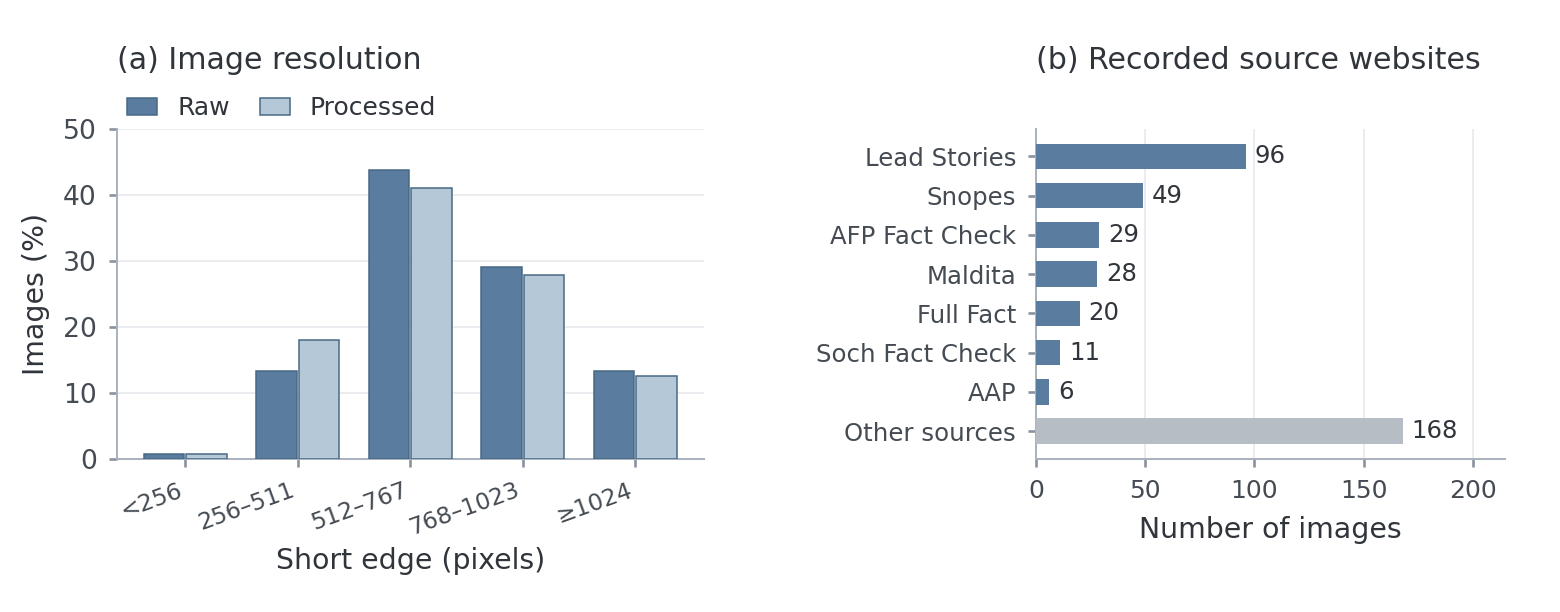
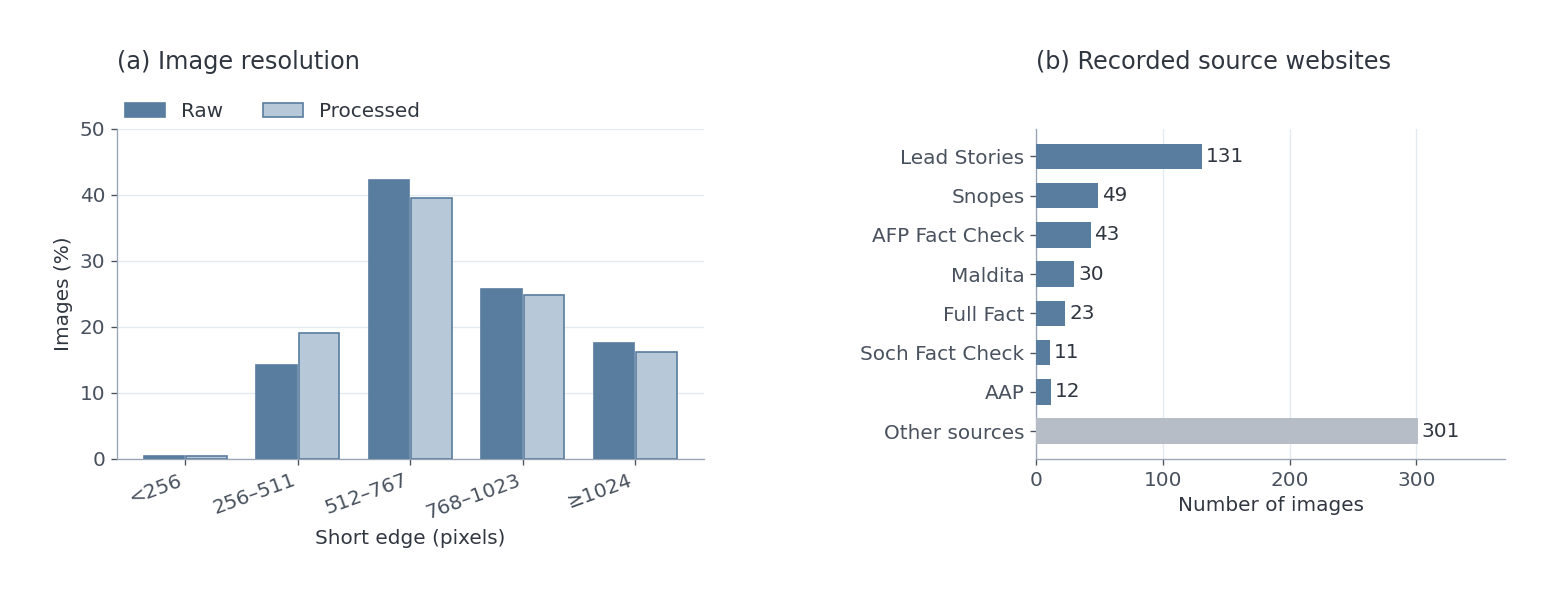
Update homepage for V2: 600-image profile and explicit V1 evaluation scope

diff --git a/index.html b/index.html
@@ -2,14 +2,14 @@
 
 <html lang="en"><head><meta charset="utf-8"/><meta content="width=device-width,initial-scale=1" name="viewport"/><title>WildAIGC-Bench — AI imagery in real circulation</title><meta content="A hard benchmark of photographic-looking AI images from real news events and online claims." name="description"/><link href="style.css" rel="stylesheet"/><script defer="" src="app.js"></script><link href="assets/logo.svg" rel="icon" type="image/svg+xml"/></head><body>
 <a class="skip-link" href="#dataset">Skip to content</a><header class="nav"><a class="brand" href="#top"><span class="mark"><img alt="" height="32" src="assets/logo.svg" width="32"/></span>WildAIGC<span class="brand-light">-Bench</span></a><nav><a href="#dataset">Explore</a><a href="#evaluation">Results</a><a href="#construction">Construction</a><a class="nav-github" href="https://github.com/YuZijian/WildAIGC-Bench">GitHub ↗</a></nav></header>
-<main id="top"><section class="hero"><div class="hero-inner"><div class="hero-text"><div class="eyebrow"><i></i> IN THE WILD. BEYOND THE LAB.</div><h1>Real stories.<br/><em>Fabricated images.</em><br/>A harder test.</h1><p class="hero-description">Photographic-looking AI images tied to real news events and online claims. Collected after actual web and social-media circulation.</p><div class="actions"><a class="button outline" href="https://arxiv.org/abs/2610.28087" rel="noopener" target="_blank">Paper <span>↗</span></a><a class="button primary" href="https://huggingface.co/datasets/yuzj1997yzj/WildAIGC-Bench">Dataset <span>↗</span></a><a class="button outline" href="https://github.com/YuZijian/WildAIGC-Bench">GitHub <span>↗</span></a></div><div class="hero-meta"><span>V1.0</span><span>407 human-reviewed AI images</span><span>arXiv:2610.28087</span></div></div><div class="hero-visual"><button aria-label="Enlarge AI image: Ronaldo wedding group photograph" class="hero-shot shot-0" data-open="img_caf321e5a730c7a7"><img alt="Ronaldo wedding group photograph" src="./assets/img_caf321e5a730c7a7-display.jpg"/><span>Celebrity event</span></button><button aria-label="Enlarge AI image: A viral sunburn competition" class="hero-shot shot-1" data-open="img_3d0c60912ad0e595"><img alt="A viral sunburn competition" src="./assets/img_3d0c60912ad0e595-display.jpg"/><span>Viral event</span></button><button aria-label="Enlarge AI image: A vintage exterior baby car seat" class="hero-shot shot-2" data-open="img_0f8bef1e5ba4dda3"><img alt="A vintage exterior baby car seat" src="./assets/img_0f8bef1e5ba4dda3-display.jpg"/><span>Everyday / historical claim</span></button><div class="image-caption"><span class="tiny-dot"></span> FROM THE COLLECTION <b>AI-generated / edited</b></div><div class="frame-corner corner-a"></div><div class="frame-corner corner-b"></div></div></div><a class="scroll-cue" href="#dataset">EXPLORE THE CHALLENGE <span>↓</span></a></section>
+<main id="top"><section class="hero"><div class="hero-inner"><div class="hero-text"><div class="eyebrow"><i></i> IN THE WILD. BEYOND THE LAB.</div><h1>Real stories.<br/><em>Fabricated images.</em><br/>A harder test.</h1><p class="hero-description">Photographic-looking AI images tied to real news events and online claims. Collected after actual web and social-media circulation.</p><div class="actions"><a class="button outline" href="https://arxiv.org/abs/2610.28087" rel="noopener" target="_blank">Paper <span>↗</span></a><a class="button primary" href="https://huggingface.co/datasets/yuzj1997yzj/WildAIGC-Bench">Dataset <span>↗</span></a><a class="button outline" href="https://github.com/YuZijian/WildAIGC-Bench">GitHub <span>↗</span></a></div><div class="hero-meta"><span>V2.0</span><span>600 human-reviewed AI images</span><span>193 new additions · Released 30 Oct 2026</span></div></div><div class="hero-visual"><button aria-label="Enlarge AI image: Ronaldo wedding group photograph" class="hero-shot shot-0" data-open="img_caf321e5a730c7a7"><img alt="Ronaldo wedding group photograph" src="./assets/img_caf321e5a730c7a7-display.jpg"/><span>Celebrity event</span></button><button aria-label="Enlarge AI image: A viral sunburn competition" class="hero-shot shot-1" data-open="img_3d0c60912ad0e595"><img alt="A viral sunburn competition" src="./assets/img_3d0c60912ad0e595-display.jpg"/><span>Viral event</span></button><button aria-label="Enlarge AI image: A vintage exterior baby car seat" class="hero-shot shot-2" data-open="img_0f8bef1e5ba4dda3"><img alt="A vintage exterior baby car seat" src="./assets/img_0f8bef1e5ba4dda3-display.jpg"/><span>Everyday / historical claim</span></button><div class="image-caption"><span class="tiny-dot"></span> FROM THE COLLECTION <b>AI-generated / edited</b></div><div class="frame-corner corner-a"></div><div class="frame-corner corner-b"></div></div></div><a class="scroll-cue" href="#dataset">EXPLORE THE CHALLENGE <span>↓</span></a></section>
 <section class="principles wrap" id="overview"><article><small>01 / BROAD COVERAGE</small><h3>Across sources.<br/>Across events.</h3><p>News websites, fact-checking sources and social media. Public figures, social affairs, disasters and everyday scenes—collected with the image conditions encountered in real online circulation.</p></article><article><small>02 / TIMELY UPDATES</small><h3>New images circulate.<br/>Collection continues.</h3><p>Ongoing discovery, screening and preliminary annotation track newly circulating images. Human-reviewed additions enter future releases; published evaluation sets remain fixed.</p></article><article><small>03 / HUMAN-VERIFIED LABELS</small><h3>Every image reviewed.<br/>Every label supported.</h3><p>Each included image is manually checked against image-specific AI evidence, including creator disclosures, platform watermarks or fact-checking findings.</p></article></section>
 <section class="section wrap" id="dataset"><div class="section-top"><span>01 — THE IMAGES</span><span>REAL ONLINE CIRCULATION</span></div><div class="heading"><h2>Looks familiar.<br/><em>Look again.</em></h2><p>Explore selected AI-generated and edited images. Source context supports human verification; detectors receive the image alone.</p></div><div class="case-explorer"><div class="case-main"><div class="case-image"><button aria-label="Enlarge selected image" data-open="img_07a35ec18eeda070" id="featuredOpen"><img alt="A viral service-dog story" id="featuredImage" src="./assets/img_07a35ec18eeda070-display.jpg"/><span class="enlarge">↗ Enlarge image</span></button><span class="image-label">AI-GENERATED / EDITED</span></div><div class="case-info"><div><small id="caseTopic">Animal story</small><h3 id="caseTitle">A viral service-dog story</h3></div><a href="https://www.snopes.com/fact-check/k9-valor-medal-honor-story/" id="caseSource" rel="noopener" target="_blank">Source &amp; context ↗</a></div></div><div aria-label="Choose an example" class="case-list"><button aria-pressed="true" class="case-tab" data-case="0"><img alt="" src="./assets/img_07a35ec18eeda070-display.jpg"/><span><small>01 / Animal story</small>A viral service-dog story</span><b>↗</b></button><button aria-pressed="false" class="case-tab" data-case="1"><img alt="" src="./assets/img_9cf679023f3f7bd8-display.jpg"/><span><small>02 / Historical landmark</small>The Taj Mahal under construction</span><b>↗</b></button><button aria-pressed="false" class="case-tab" data-case="2"><img alt="" src="./assets/img_c8cb9fa489e4d903-display.jpg"/><span><small>03 / Sports / edited scene</small>Rainbow flags added to a World Cup stadium</span><b>↗</b></button><button aria-pressed="false" class="case-tab" data-case="3"><img alt="" src="./assets/img_0fe24cc6e96245b8-display.png"/><span><small>04 / Poster / local edit</small>Song Yuqi retail poster</span><b>↗</b></button><button aria-pressed="false" class="case-tab" data-case="4"><img alt="" src="./assets/img_389d5651c4658339-display.jpg"/><span><small>05 / Everyday misinformation</small>A hospital notice about AI diagnosis</span><b>↗</b></button><button aria-pressed="false" class="case-tab" data-case="5"><img alt="" src="./assets/img_ef07d6f200fb3139-display.webp"/><span><small>06 / Disaster / historical claim</small>A purported historical earthquake scene</span><b>↗</b></button></div></div><p class="fine">Illustrative processed examples; not selected to represent images missed by every detector. Click an image to inspect it at full size.</p></section>
-<section class="results-section" id="evaluation"><div class="wrap"><div class="section-top"><span>02 — THE CHALLENGE</span><span>IMAGE-ONLY EVALUATION</span></div><div class="heading"><h2>Strong elsewhere.<br/><em>Challenged here.</em></h2><p>Compare each detector’s external benchmark mean with its recall on WildAIGC-Bench.</p></div><div class="result-summary"><span class="summary-number">60.93<span>%</span></span><div><strong>Highest processed recall</strong><p>Among the displayed configurations. Higher recall alone does not establish better overall detection performance.</p></div><a href="https://github.com/YuZijian/WildAIGC-Bench/blob/main/docs/detailed-results.md">External real-image FPR ↗</a></div>
+<section class="results-section" id="evaluation"><div class="wrap"><div class="section-top"><span>02 — THE CHALLENGE</span><span>V1 · 407 IMAGES · IMAGE-ONLY EVALUATION</span></div><div class="heading"><h2>Strong elsewhere.<br/><em>Challenged here.</em></h2><p>Compare each detector’s external benchmark mean with its recall on WildAIGC-Bench V1. V2 evaluation is pending.</p></div><div class="result-summary"><span class="summary-number">60.93<span>%</span></span><div><strong>Highest processed recall</strong><p>Among the displayed configurations. Higher recall alone does not establish better overall detection performance.</p></div><a href="https://github.com/YuZijian/WildAIGC-Bench/blob/main/docs/detailed-results.md">External real-image FPR ↗</a></div>
 <div class="chart-card"><div class="chart-toolbar"><div aria-label="Filter detector family" class="segmented"><button aria-pressed="true" class="active" data-filter="all">All methods</button><button aria-pressed="false" data-filter="classifier">Classification</button><button aria-pressed="false" data-filter="mllm">Multimodal</button></div><label>Sort by <select id="chartSort"><option value="original">Method family</option><option value="recall">Processed recall</option><option value="drop">Recall drop</option></select></label></div><div class="chart-legend"><span><i class="dot wild"></i>WildAIGC · processed</span><span><i class="dot external"></i>External benchmark mean</span><span class="legend-unit">AI-image recall (%)</span></div><div aria-label="Detector recall comparison" id="interactiveChart"></div><noscript><img alt="Recall comparison" src="assets/recall_overview.svg"/></noscript><p class="fine">External mean: nine benchmarks, equally weighted. Different test distributions; the gap does not isolate the effect of propagation degradation.</p></div>
-<div class="table-area"><div aria-label="Evaluation tables" class="table-tabs" role="tablist"><button aria-controls="wildPanel" aria-selected="true" data-panel="wildPanel" id="wildTab" role="tab">WildAIGC-Bench <span>407 AI images</span></button><button aria-controls="crossPanel" aria-selected="false" data-panel="crossPanel" id="crossTab" role="tab">Across benchmarks <span>Detailed recall</span></button></div><div class="metric-legend">Bold indicates the highest recall in each column.</div><div aria-labelledby="wildTab" id="wildPanel" role="tabpanel"><div class="table-scroll" tabindex="0"><table id="wildTable"><thead><tr><th scope="col">Method</th><th scope="col">Raw Recall</th><th scope="col">Processed Recall</th><th scope="col">External Mean Recall</th><th scope="col">Recall Drop (pp)</th></tr></thead><tbody><tr class="method-group-row"><th colspan="5" scope="rowgroup"><span class="method-group-label">Classification models</span></th></tr><tr><th scope="row">DRCT</th><td>0.2948</td><td>0.2899</td><td>0.5086</td><td class="drop-emphasis">21.87</td></tr><tr><th scope="row">DDA</th><td>0.3538</td><td>0.3636</td><td>0.8166</td><td class="drop-emphasis">45.30</td></tr><tr><th scope="row">AIDE</th><td>0.1450</td><td>0.1843</td><td>0.5297</td><td class="drop-emphasis">34.55</td></tr><tr><th scope="row">B-Free</th><td>0.3366</td><td>0.3317</td><td>0.8117</td><td class="drop-emphasis">48.00</td></tr><tr><th scope="row">Effort</th><td>0.2531</td><td>0.2629</td><td>0.5935</td><td class="drop-emphasis">33.06</td></tr><tr><th scope="row">PGC</th><td>0.1376</td><td>0.1302</td><td>0.6435</td><td class="drop-emphasis">51.32</td></tr><tr><th scope="row">OmniAID</th><td>0.2973</td><td>0.3071</td><td>0.8708</td><td class="drop-emphasis">56.37</td></tr><tr><th scope="row">CO-SPY</th><td>0.3047</td><td>0.3219</td><td>0.6556</td><td class="drop-emphasis">33.38</td></tr><tr><th scope="row">PE-336</th><td>0.1941</td><td>0.2015</td><td>0.9049</td><td class="drop-emphasis">70.34</td></tr><tr><th scope="row">PE-518</th><td>0.2236</td><td>0.2310</td><td class="metric-best" title="Highest displayed recall in this column">0.9351</td><td class="drop-emphasis">70.41</td></tr><tr class="method-group-row"><th colspan="5" scope="rowgroup"><span class="method-group-label">Multimodal large language models</span></th></tr><tr><th scope="row">Qwen3.6-35B</th><td>0.3808</td><td>0.3563</td><td>0.6918</td><td class="drop-emphasis">33.56</td></tr><tr><th scope="row">FakeVLM</th><td>0.5283</td><td>0.5405</td><td>0.9063</td><td class="drop-emphasis">36.57</td></tr><tr><th scope="row">BusterX++</th><td>0.2973</td><td>0.2948</td><td>0.7593</td><td class="drop-emphasis">46.44</td></tr><tr><th scope="row">Veritas++</th><td>0.4644</td><td>0.4717</td><td>0.8286</td><td class="drop-emphasis">35.68</td></tr><tr><th scope="row">Qwen3.8-27B</th><td>0.5528</td><td>0.5283</td><td>0.7721</td><td class="drop-emphasis">24.39</td></tr><tr><th scope="row">GLM-5.3-Flash</th><td class="metric-best" title="Highest displayed recall in this column">0.6658</td><td class="metric-best" title="Highest displayed recall in this column">0.6093</td><td>0.8545</td><td class="drop-emphasis">24.52</td></tr></tbody></table></div><p class="fine">External Mean Recall excludes WildAIGC. Drop = external mean − processed recall, in percentage points (pp). Unknown outputs count as misses. This positive-only set does not measure real-image false positives.</p></div><div aria-labelledby="crossTab" hidden="" id="crossPanel" role="tabpanel"><div class="table-scroll" tabindex="0"><table id="crossTable"><thead><tr class="benchmark-groups"><th class="method-heading" rowspan="2" scope="col">Method</th><th class="benchmark-group" colspan="3" scope="colgroup">Standard benchmarks</th><th class="benchmark-group group-start" colspan="6" scope="colgroup">In-the-Wild benchmarks</th><th class="benchmark-group group-start own-benchmark" colspan="1" scope="colgroup">WildAIGC<br/><span>In-the-Wild · ours</span></th><th class="macro-column" rowspan="2" scope="col">Common-set mean<br/><span>9 benchmarks ↑</span></th></tr><tr><th scope="col">EvalGen</th><th scope="col">synthbuster</th><th scope="col">UnivFD</th><th class="group-start" scope="col">AIGIBench</th><th scope="col">Chameleon</th><th scope="col">SynthWildx</th><th scope="col">WildRF</th><th scope="col">RRDataset</th><th scope="col">ITW-SM</th><th class="group-start own-benchmark" scope="col">WildAIGC<br/>processed</th></tr></thead><tbody><tr class="method-group-row"><th colspan="12" scope="rowgroup"><span class="method-group-label">Classification models</span></th></tr><tr><th scope="row">DRCT</th><td>0.5093</td><td>0.5593</td><td>0.2196</td><td>0.5650</td><td>0.5818</td><td>0.5975</td><td>0.5838</td><td>0.3627</td><td>0.5982</td><td>0.2899</td><td>0.5086</td></tr><tr><th scope="row">DDA</th><td>0.9685</td><td>0.9757</td><td>0.8359</td><td>0.7445</td><td>0.7078</td><td>0.9291</td><td>0.8724</td><td>0.4700</td><td>0.8454</td><td>0.3636</td><td>0.8166</td></tr><tr><th scope="row">AIDE</th><td>0.5626</td><td>0.6527</td><td>0.8101</td><td>0.7090</td><td>0.3398</td><td>0.4874</td><td>0.5514</td><td>0.2238</td><td>0.4308</td><td>0.1843</td><td>0.5297</td></tr><tr><th scope="row">B-Free</th><td>0.9128</td><td>0.9423</td><td>0.8266</td><td>0.7189</td><td>0.6201</td><td class="metric-best" title="Highest displayed recall in this column">0.9852</td><td>0.9319</td><td>0.4786</td><td>0.8886</td><td>0.3317</td><td>0.8117</td></tr><tr><th scope="row">Effort</th><td>0.5438</td><td>0.9703</td><td>0.9120</td><td>0.8326</td><td>0.5191</td><td>0.3471</td><td>0.6930</td><td>0.1510</td><td>0.3726</td><td>0.2629</td><td>0.5935</td></tr><tr><th scope="row">PGC</th><td>0.5719</td><td>0.8107</td><td>0.9199</td><td>0.8100</td><td>0.1603</td><td>0.7105</td><td>0.8843</td><td>0.2745</td><td>0.6492</td><td>0.1302</td><td>0.6435</td></tr><tr><th scope="row">OmniAID</th><td>0.9721</td><td>0.8343</td><td>0.8077</td><td>0.7115</td><td>0.9086</td><td>0.9380</td><td>0.9859</td><td>0.7287</td><td>0.9504</td><td>0.3071</td><td>0.8708</td></tr><tr><th scope="row">CO-SPY</th><td>0.9268</td><td>0.7553</td><td>0.4244</td><td>0.6162</td><td>0.5219</td><td>0.7378</td><td>0.7568</td><td>0.6433</td><td>0.5182</td><td>0.3219</td><td>0.6556</td></tr><tr><th scope="row">PE-336</th><td>0.9996</td><td>0.9653</td><td class="metric-best" title="Highest displayed recall in this column">0.9945</td><td class="metric-best" title="Highest displayed recall in this column">0.9700</td><td>0.7606</td><td>0.9062</td><td>0.9654</td><td>0.7797</td><td>0.8028</td><td>0.2015</td><td>0.9049</td></tr><tr><th scope="row">PE-518</th><td class="metric-best" title="Highest displayed recall in this column">0.9997</td><td class="metric-best" title="Highest displayed recall in this column">0.9973</td><td>0.9942</td><td>0.9609</td><td>0.8216</td><td>0.9468</td><td class="metric-best" title="Highest displayed recall in this column">0.9881</td><td class="metric-best" title="Highest displayed recall in this column">0.8229</td><td>0.8840</td><td>0.2310</td><td class="metric-best" title="Highest displayed recall in this column">0.9351</td></tr><tr class="method-group-row"><th colspan="12" scope="rowgroup"><span class="method-group-label">Multimodal large language models</span></th></tr><tr><th scope="row">Qwen3.6-35B <sup>†</sup></th><td>0.8775</td><td>0.5157</td><td>0.5330</td><td>0.4605</td><td>0.5769</td><td>0.8656</td><td>0.9157</td><td>0.5510</td><td>0.9306</td><td>0.3563</td><td>0.6918</td></tr><tr><th scope="row">FakeVLM <sup>†</sup></th><td>0.9900</td><td>0.9587</td><td>0.9270</td><td>0.9409</td><td class="metric-best" title="Highest displayed recall in this column">0.9953</td><td>0.9490</td><td>0.9276</td><td>0.5870</td><td>0.8810</td><td>0.5405</td><td>0.9063</td></tr><tr><th scope="row">BusterX++ <sup>†</sup></th><td>0.9290</td><td>0.8103</td><td>0.5370</td><td>0.5465</td><td>0.6142</td><td>0.9313</td><td>0.9589</td><td>0.5640</td><td>0.9422</td><td>0.2948</td><td>0.7593</td></tr><tr><th scope="row">Veritas++ <sup>†</sup></th><td>0.9890</td><td>0.8300</td><td>0.4430</td><td>0.6977</td><td>0.9324</td><td>0.9321</td><td>0.9741</td><td>0.7050</td><td class="metric-best" title="Highest displayed recall in this column">0.9540</td><td>0.4717</td><td>0.8286</td></tr><tr><th scope="row">Qwen3.8-27B <sup>†</sup></th><td>0.8795</td><td>0.6460</td><td>0.7110</td><td>0.7397</td><td>0.6935</td><td>0.8678</td><td>0.8605</td><td>0.6690</td><td>0.8820</td><td>0.5283</td><td>0.7721</td></tr><tr><th scope="row">GLM-5.3-Flash <sup>†</sup></th><td>0.9875</td><td>0.8233</td><td>0.7250</td><td>0.7007</td><td>0.8998</td><td>0.9284</td><td>0.9589</td><td>0.7300</td><td>0.9370</td><td class="metric-best" title="Highest displayed recall in this column">0.6093</td><td>0.8545</td></tr></tbody></table></div><p class="fine">Common mean: EvalGen, synthbuster, UnivFD, AIGIBench, Chameleon, SynthWildx, WildRF, RRDataset and ITW-SM. † Fixed subsets on large dimensions; full evaluation on smaller dimensions.</p></div></div><p class="fine">Our PE baselines: PE-Core-Large (Perception Encoder) + classification head, trained at 336 × 336 and 518 × 518 input resolution. Further details will appear in the report.</p><div class="section-links"><a href="https://github.com/YuZijian/WildAIGC-Bench/blob/main/docs/evaluation.md">Evaluation protocol ↗</a><a href="https://github.com/YuZijian/WildAIGC-Bench/blob/main/docs/detailed-results.md">Additional results ↗</a></div></div></section>
+<div class="table-area"><div aria-label="Evaluation tables" class="table-tabs" role="tablist"><button aria-controls="wildPanel" aria-selected="true" data-panel="wildPanel" id="wildTab" role="tab">WildAIGC-Bench <span>V1 · 407 AI images</span></button><button aria-controls="crossPanel" aria-selected="false" data-panel="crossPanel" id="crossTab" role="tab">Across benchmarks <span>Detailed recall</span></button></div><div class="metric-legend">Bold indicates the highest recall in each column.</div><div aria-labelledby="wildTab" id="wildPanel" role="tabpanel"><div class="table-scroll" tabindex="0"><table id="wildTable"><thead><tr><th scope="col">Method</th><th scope="col">Raw Recall</th><th scope="col">Processed Recall</th><th scope="col">External Mean Recall</th><th scope="col">Recall Drop (pp)</th></tr></thead><tbody><tr class="method-group-row"><th colspan="5" scope="rowgroup"><span class="method-group-label">Classification models</span></th></tr><tr><th scope="row">DRCT</th><td>0.2948</td><td>0.2899</td><td>0.5086</td><td class="drop-emphasis">21.87</td></tr><tr><th scope="row">DDA</th><td>0.3538</td><td>0.3636</td><td>0.8166</td><td class="drop-emphasis">45.30</td></tr><tr><th scope="row">AIDE</th><td>0.1450</td><td>0.1843</td><td>0.5297</td><td class="drop-emphasis">34.55</td></tr><tr><th scope="row">B-Free</th><td>0.3366</td><td>0.3317</td><td>0.8117</td><td class="drop-emphasis">48.00</td></tr><tr><th scope="row">Effort</th><td>0.2531</td><td>0.2629</td><td>0.5935</td><td class="drop-emphasis">33.06</td></tr><tr><th scope="row">PGC</th><td>0.1376</td><td>0.1302</td><td>0.6435</td><td class="drop-emphasis">51.32</td></tr><tr><th scope="row">OmniAID</th><td>0.2973</td><td>0.3071</td><td>0.8708</td><td class="drop-emphasis">56.37</td></tr><tr><th scope="row">CO-SPY</th><td>0.3047</td><td>0.3219</td><td>0.6556</td><td class="drop-emphasis">33.38</td></tr><tr><th scope="row">PE-336</th><td>0.1941</td><td>0.2015</td><td>0.9049</td><td class="drop-emphasis">70.34</td></tr><tr><th scope="row">PE-518</th><td>0.2236</td><td>0.2310</td><td class="metric-best" title="Highest displayed recall in this column">0.9351</td><td class="drop-emphasis">70.41</td></tr><tr class="method-group-row"><th colspan="5" scope="rowgroup"><span class="method-group-label">Multimodal large language models</span></th></tr><tr><th scope="row">Qwen3.6-35B</th><td>0.3808</td><td>0.3563</td><td>0.6918</td><td class="drop-emphasis">33.56</td></tr><tr><th scope="row">FakeVLM</th><td>0.5283</td><td>0.5405</td><td>0.9063</td><td class="drop-emphasis">36.57</td></tr><tr><th scope="row">BusterX++</th><td>0.2973</td><td>0.2948</td><td>0.7593</td><td class="drop-emphasis">46.44</td></tr><tr><th scope="row">Veritas++</th><td>0.4644</td><td>0.4717</td><td>0.8286</td><td class="drop-emphasis">35.68</td></tr><tr><th scope="row">Qwen3.8-27B</th><td>0.5528</td><td>0.5283</td><td>0.7721</td><td class="drop-emphasis">24.39</td></tr><tr><th scope="row">GLM-5.3-Flash</th><td class="metric-best" title="Highest displayed recall in this column">0.6658</td><td class="metric-best" title="Highest displayed recall in this column">0.6093</td><td>0.8545</td><td class="drop-emphasis">24.52</td></tr></tbody></table></div><p class="fine">External Mean Recall excludes WildAIGC. Drop = external mean − processed recall, in percentage points (pp). Unknown outputs count as misses. This positive-only set does not measure real-image false positives.</p></div><div aria-labelledby="crossTab" hidden="" id="crossPanel" role="tabpanel"><div class="table-scroll" tabindex="0"><table id="crossTable"><thead><tr class="benchmark-groups"><th class="method-heading" rowspan="2" scope="col">Method</th><th class="benchmark-group" colspan="3" scope="colgroup">Standard benchmarks</th><th class="benchmark-group group-start" colspan="6" scope="colgroup">In-the-Wild benchmarks</th><th class="benchmark-group group-start own-benchmark" colspan="1" scope="colgroup">WildAIGC<br/><span>In-the-Wild · ours</span></th><th class="macro-column" rowspan="2" scope="col">Common-set mean<br/><span>9 benchmarks ↑</span></th></tr><tr><th scope="col">EvalGen</th><th scope="col">synthbuster</th><th scope="col">UnivFD</th><th class="group-start" scope="col">AIGIBench</th><th scope="col">Chameleon</th><th scope="col">SynthWildx</th><th scope="col">WildRF</th><th scope="col">RRDataset</th><th scope="col">ITW-SM</th><th class="group-start own-benchmark" scope="col">WildAIGC V1<br/>processed</th></tr></thead><tbody><tr class="method-group-row"><th colspan="12" scope="rowgroup"><span class="method-group-label">Classification models</span></th></tr><tr><th scope="row">DRCT</th><td>0.5093</td><td>0.5593</td><td>0.2196</td><td>0.5650</td><td>0.5818</td><td>0.5975</td><td>0.5838</td><td>0.3627</td><td>0.5982</td><td>0.2899</td><td>0.5086</td></tr><tr><th scope="row">DDA</th><td>0.9685</td><td>0.9757</td><td>0.8359</td><td>0.7445</td><td>0.7078</td><td>0.9291</td><td>0.8724</td><td>0.4700</td><td>0.8454</td><td>0.3636</td><td>0.8166</td></tr><tr><th scope="row">AIDE</th><td>0.5626</td><td>0.6527</td><td>0.8101</td><td>0.7090</td><td>0.3398</td><td>0.4874</td><td>0.5514</td><td>0.2238</td><td>0.4308</td><td>0.1843</td><td>0.5297</td></tr><tr><th scope="row">B-Free</th><td>0.9128</td><td>0.9423</td><td>0.8266</td><td>0.7189</td><td>0.6201</td><td class="metric-best" title="Highest displayed recall in this column">0.9852</td><td>0.9319</td><td>0.4786</td><td>0.8886</td><td>0.3317</td><td>0.8117</td></tr><tr><th scope="row">Effort</th><td>0.5438</td><td>0.9703</td><td>0.9120</td><td>0.8326</td><td>0.5191</td><td>0.3471</td><td>0.6930</td><td>0.1510</td><td>0.3726</td><td>0.2629</td><td>0.5935</td></tr><tr><th scope="row">PGC</th><td>0.5719</td><td>0.8107</td><td>0.9199</td><td>0.8100</td><td>0.1603</td><td>0.7105</td><td>0.8843</td><td>0.2745</td><td>0.6492</td><td>0.1302</td><td>0.6435</td></tr><tr><th scope="row">OmniAID</th><td>0.9721</td><td>0.8343</td><td>0.8077</td><td>0.7115</td><td>0.9086</td><td>0.9380</td><td>0.9859</td><td>0.7287</td><td>0.9504</td><td>0.3071</td><td>0.8708</td></tr><tr><th scope="row">CO-SPY</th><td>0.9268</td><td>0.7553</td><td>0.4244</td><td>0.6162</td><td>0.5219</td><td>0.7378</td><td>0.7568</td><td>0.6433</td><td>0.5182</td><td>0.3219</td><td>0.6556</td></tr><tr><th scope="row">PE-336</th><td>0.9996</td><td>0.9653</td><td class="metric-best" title="Highest displayed recall in this column">0.9945</td><td class="metric-best" title="Highest displayed recall in this column">0.9700</td><td>0.7606</td><td>0.9062</td><td>0.9654</td><td>0.7797</td><td>0.8028</td><td>0.2015</td><td>0.9049</td></tr><tr><th scope="row">PE-518</th><td class="metric-best" title="Highest displayed recall in this column">0.9997</td><td class="metric-best" title="Highest displayed recall in this column">0.9973</td><td>0.9942</td><td>0.9609</td><td>0.8216</td><td>0.9468</td><td class="metric-best" title="Highest displayed recall in this column">0.9881</td><td class="metric-best" title="Highest displayed recall in this column">0.8229</td><td>0.8840</td><td>0.2310</td><td class="metric-best" title="Highest displayed recall in this column">0.9351</td></tr><tr class="method-group-row"><th colspan="12" scope="rowgroup"><span class="method-group-label">Multimodal large language models</span></th></tr><tr><th scope="row">Qwen3.6-35B <sup>†</sup></th><td>0.8775</td><td>0.5157</td><td>0.5330</td><td>0.4605</td><td>0.5769</td><td>0.8656</td><td>0.9157</td><td>0.5510</td><td>0.9306</td><td>0.3563</td><td>0.6918</td></tr><tr><th scope="row">FakeVLM <sup>†</sup></th><td>0.9900</td><td>0.9587</td><td>0.9270</td><td>0.9409</td><td class="metric-best" title="Highest displayed recall in this column">0.9953</td><td>0.9490</td><td>0.9276</td><td>0.5870</td><td>0.8810</td><td>0.5405</td><td>0.9063</td></tr><tr><th scope="row">BusterX++ <sup>†</sup></th><td>0.9290</td><td>0.8103</td><td>0.5370</td><td>0.5465</td><td>0.6142</td><td>0.9313</td><td>0.9589</td><td>0.5640</td><td>0.9422</td><td>0.2948</td><td>0.7593</td></tr><tr><th scope="row">Veritas++ <sup>†</sup></th><td>0.9890</td><td>0.8300</td><td>0.4430</td><td>0.6977</td><td>0.9324</td><td>0.9321</td><td>0.9741</td><td>0.7050</td><td class="metric-best" title="Highest displayed recall in this column">0.9540</td><td>0.4717</td><td>0.8286</td></tr><tr><th scope="row">Qwen3.8-27B <sup>†</sup></th><td>0.8795</td><td>0.6460</td><td>0.7110</td><td>0.7397</td><td>0.6935</td><td>0.8678</td><td>0.8605</td><td>0.6690</td><td>0.8820</td><td>0.5283</td><td>0.7721</td></tr><tr><th scope="row">GLM-5.3-Flash <sup>†</sup></th><td>0.9875</td><td>0.8233</td><td>0.7250</td><td>0.7007</td><td>0.8998</td><td>0.9284</td><td>0.9589</td><td>0.7300</td><td>0.9370</td><td class="metric-best" title="Highest displayed recall in this column">0.6093</td><td>0.8545</td></tr></tbody></table></div><p class="fine">Common mean: EvalGen, synthbuster, UnivFD, AIGIBench, Chameleon, SynthWildx, WildRF, RRDataset and ITW-SM. † Fixed subsets on large dimensions; full evaluation on smaller dimensions.</p></div></div><p class="fine">Our PE baselines: PE-Core-Large (Perception Encoder) + classification head, trained at 336 × 336 and 518 × 518 input resolution. Further details will appear in the report.</p><div class="section-links"><a href="https://github.com/YuZijian/WildAIGC-Bench/blob/main/docs/evaluation.md">Evaluation protocol ↗</a><a href="https://github.com/YuZijian/WildAIGC-Bench/blob/main/docs/detailed-results.md">Additional results ↗</a></div></div></section>
 <section class="section wrap" id="construction"><div class="section-top"><span>03 — BEHIND THE BENCHMARK</span><span>FROM DISCOVERY TO REVIEW</span></div><div class="heading"><h2>From circulation<br/><em>to a curated test.</em></h2><p>Trace the event. Link the evidence. Review the image. General-purpose detector outputs are not used for sample selection.</p></div><button aria-label="Enlarge construction workflow" class="figure-open" data-figure="assets/construction_pipeline.png" data-title="Collection and annotation workflow"><img alt="Collection and annotation workflow with provenance example" loading="lazy" src="assets/construction_pipeline.png"/><span>View figure ↗</span></button><a class="text-link" href="https://github.com/YuZijian/WildAIGC-Bench/blob/main/docs/dataset.md">Read the construction protocol ↗</a></section>
-<section class="profile-section" id="statistics"><div class="wrap"><div class="section-top"><span>04 — DATA PROFILE</span><span>407 IMAGES / V1.0</span></div><div class="heading"><h2>The collection,<br/><em>in perspective.</em></h2><p>A curated challenge set, not a representative sample of the entire internet. Recorded sources and image dimensions make its scope visible.</p></div><button aria-label="Enlarge dataset profile" class="figure-open" data-figure="assets/dataset_profile.png" data-title="Dataset profile"><img alt="Short-edge image resolution and recorded source website counts" loading="lazy" src="assets/dataset_profile.png"/><span>View figure ↗</span></button><p class="fine">Resolution is measured by the shorter edge in pixels. Sources are recorded report websites, not necessarily original social platforms.</p></div></section>
+<section class="profile-section" id="statistics"><div class="wrap"><div class="section-top"><span>04 — DATA PROFILE</span><span>600 IMAGES / V2.0</span></div><div class="heading"><h2>The collection,<br/><em>in perspective.</em></h2><p>A curated challenge set, not a representative sample of the entire internet. Recorded sources and image dimensions make its scope visible.</p></div><button aria-label="Enlarge dataset profile" class="figure-open" data-figure="assets/dataset_profile.png" data-title="Dataset profile"><img alt="Short-edge image resolution and recorded source website counts" loading="lazy" src="assets/dataset_profile.png"/><span>View figure ↗</span></button><p class="fine">V2 profile: all 600 images. Resolution is measured by the shorter edge in pixels. Sources are recorded report websites, not necessarily original social platforms.</p></div></section>
 <section class="resource-section citation-section" id="resources"><div class="wrap"><div class="citation-heading"><div><h2>Citation</h2><p>If you use WildAIGC-Bench in your research, please cite our paper.</p></div><div class="resource-links"><a href="https://arxiv.org/abs/2610.28087">Paper ↗</a><a href="https://huggingface.co/datasets/yuzj1997yzj/WildAIGC-Bench">Dataset ↗</a><a href="https://github.com/YuZijian/WildAIGC-Bench">GitHub ↗</a></div></div><div class="citation-box"><div class="citation-toolbar"><span>BIBTEX</span><button id="copyCitation" type="button">Copy</button></div><pre><code id="citationText">@misc{yu2026wildaigcbench,
   title={WildAIGC-Bench: Can AI Image Detectors Handle the Wild? A Benchmark of Generated and Edited Images in Online Circulation},
   author={Zijian Yu and Hangwei Zhang and Jun Lan and Huijia Zhu and Weiqiang Wang and Jianfu Zhang},
@@ -18,4 +18,4 @@
   archivePrefix={arXiv},
   primaryClass={cs.CV},
   url={https://arxiv.org/abs/2610.28087}
-}</code></pre><span aria-live="polite" id="citationStatus" role="status"></span></div><div class="resource-footer"><span>WildAIGC-Bench</span><div class="footer-links"><a href="https://github.com/YuZijian/WildAIGC-Bench/issues">Issues ↗</a><a href="https://huggingface.co/datasets/yuzj1997yzj/WildAIGC-Bench/blob/main/LICENSE">License ↗</a><a href="#top">Back to top ↑</a></div></div><p class="rights-note">Third-party image rights remain with their respective holders.</p></div></section></main><dialog aria-labelledby="dialogTitle" id="sampleDialog"><div class="dialog-header"><div><span class="dialog-id" id="dialogId"></span><h2 id="dialogTitle"></h2></div><button aria-label="Close image viewer" class="dialog-close" id="closeDialog">×</button></div><div class="dialog-toolbar"><span id="dialogStatus"></span><a id="fullImageLink" rel="noopener noreferrer" target="_blank">Open full-resolution file ↗</a></div><div class="dialog-image-wrap"><img alt="" id="dialogImage"/></div><div class="dialog-bottom"><span id="dialogDimensions"></span><a id="dialogSource" rel="noopener noreferrer" target="_blank">Source &amp; context ↗</a></div></dialog><dialog id="figureDialog"><div class="figure-dialog-top"><h3 id="figureTitle"></h3><button aria-label="Close figure" id="closeFigure">×</button></div><img alt="" id="figureImage"/><a id="figureOriginal" rel="noopener" target="_blank">Open original ↗</a></dialog></body></html>
+}</code></pre><span aria-live="polite" id="citationStatus" role="status"></span></div><div class="resource-footer"><span>WildAIGC-Bench</span><div class="footer-links"><a href="https://github.com/YuZijian/WildAIGC-Bench/issues">Issues ↗</a><a href="https://huggingface.co/datasets/yuzj1997yzj/WildAIGC-Bench/blob/main/LICENSE">License ↗</a><a href="https://huggingface.co/datasets/yuzj1997yzj/WildAIGC-Bench/tree/0b043a1dd41e694749227af8610930cc86049747">V1 archive ↗</a><a href="#top">Back to top ↑</a></div></div><p class="rights-note">Third-party image rights remain with their respective holders.</p></div></section></main><dialog aria-labelledby="dialogTitle" id="sampleDialog"><div class="dialog-header"><div><span class="dialog-id" id="dialogId"></span><h2 id="dialogTitle"></h2></div><button aria-label="Close image viewer" class="dialog-close" id="closeDialog">×</button></div><div class="dialog-toolbar"><span id="dialogStatus"></span><a id="fullImageLink" rel="noopener noreferrer" target="_blank">Open full-resolution file ↗</a></div><div class="dialog-image-wrap"><img alt="" id="dialogImage"/></div><div class="dialog-bottom"><span id="dialogDimensions"></span><a id="dialogSource" rel="noopener noreferrer" target="_blank">Source &amp; context ↗</a></div></dialog><dialog id="figureDialog"><div class="figure-dialog-top"><h3 id="figureTitle"></h3><button aria-label="Close figure" id="closeFigure">×</button></div><img alt="" id="figureImage"/><a id="figureOriginal" rel="noopener" target="_blank">Open original ↗</a></dialog></body></html>
